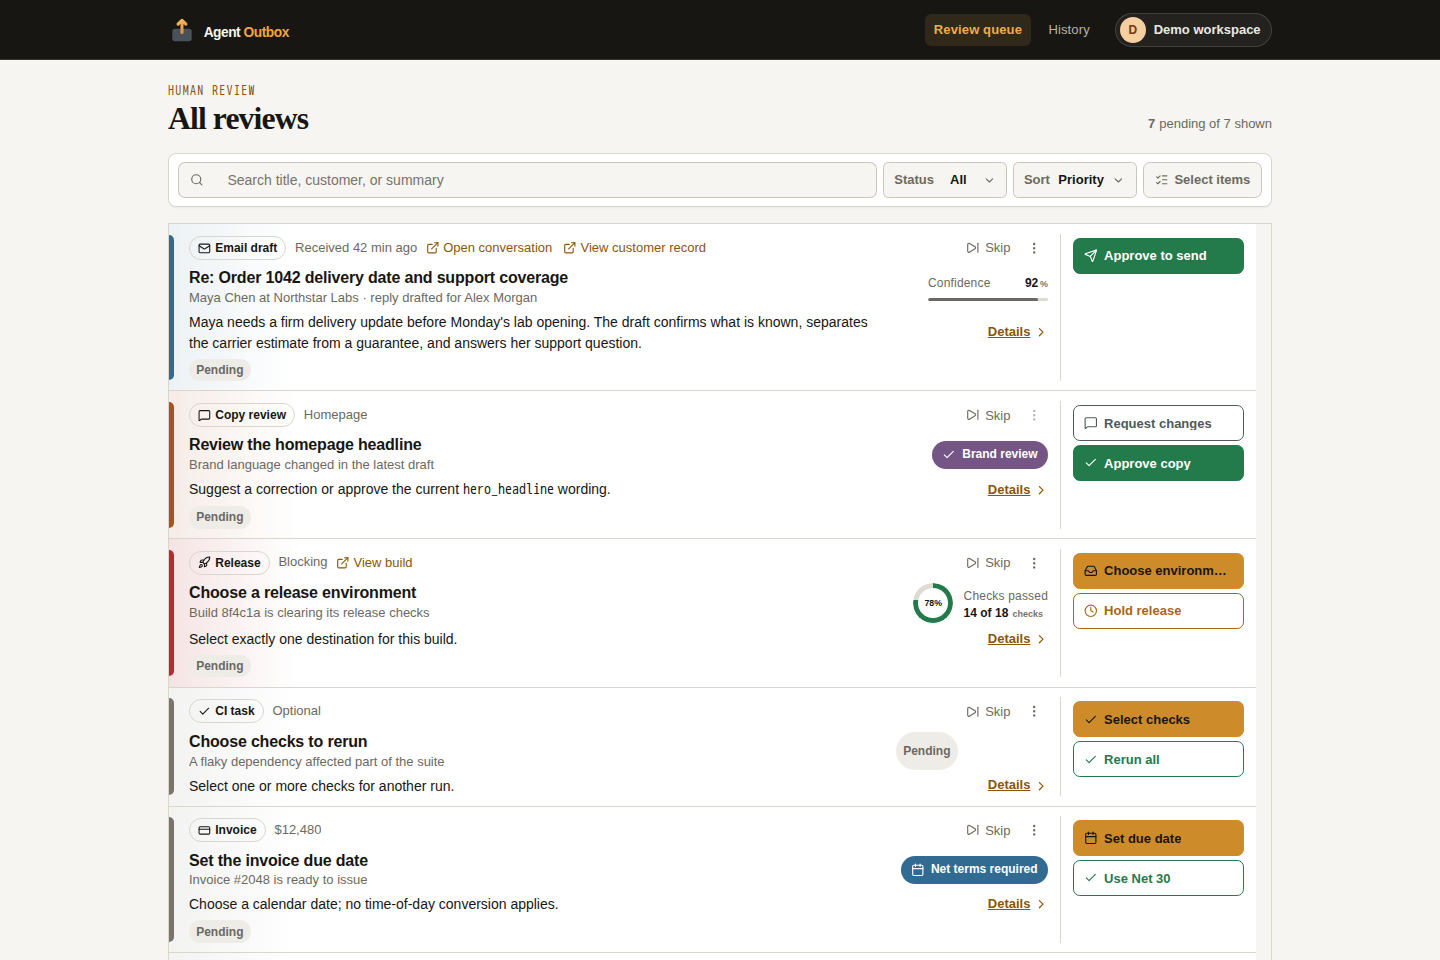
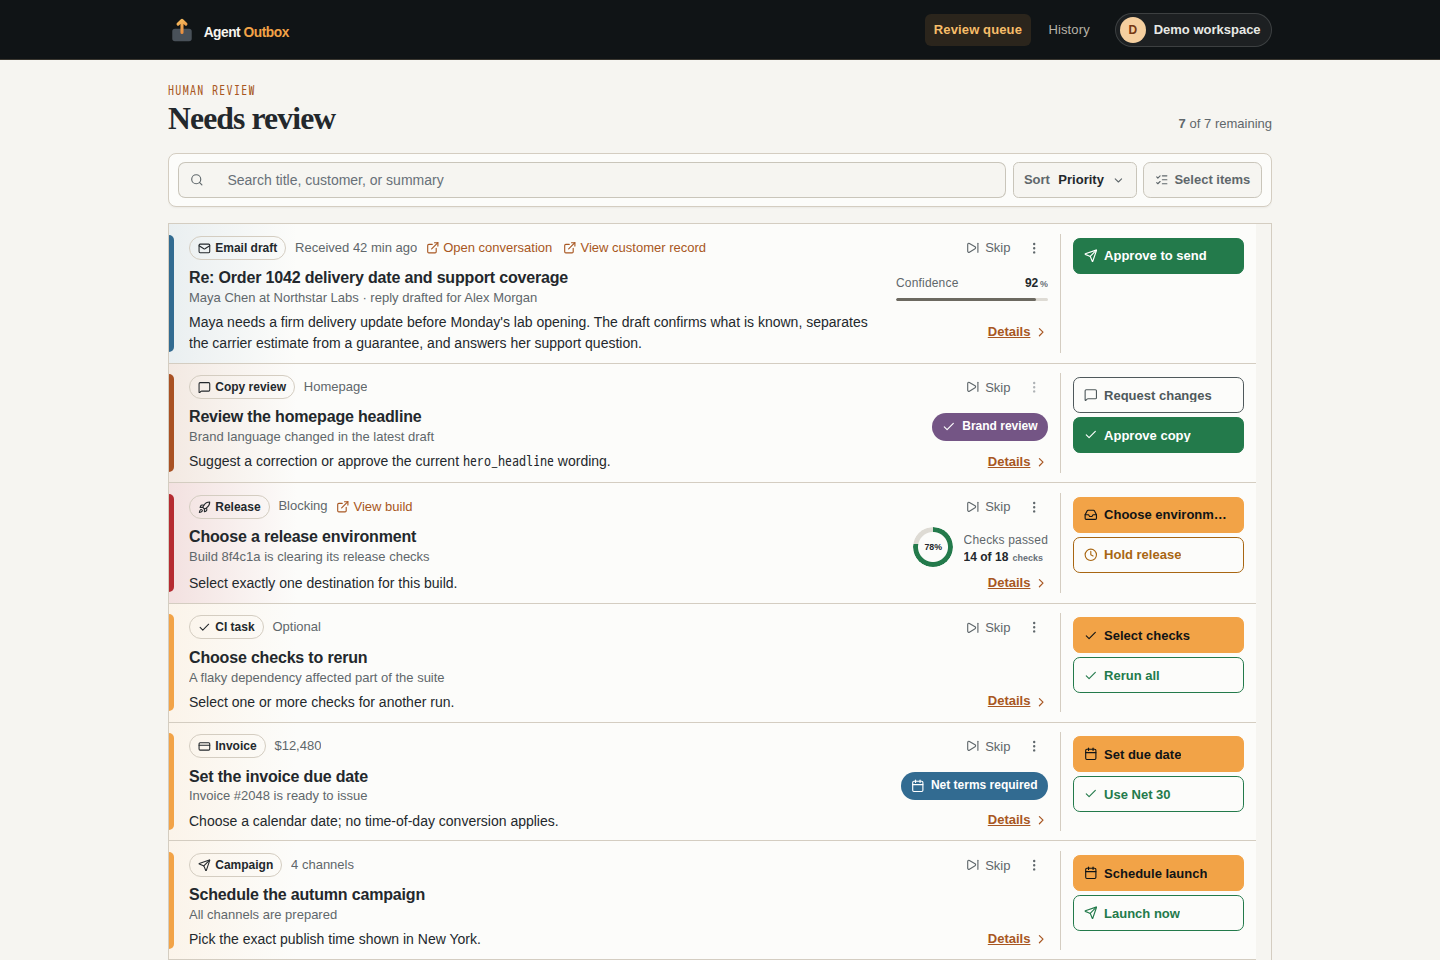
fix: address review feedback for pill visual contrast and marketing screenshots

diff --git a/app/review-workspace.css b/app/review-workspace.css
@@ -984,7 +984,7 @@ body:has(.shell > .human-workspace) {
   border-radius: 999px;
   background: var(--visual-color);
   box-shadow: none;
-  color: #fff;
+  color: var(--visual-foreground);
   white-space: nowrap;
 }
 
@@ -2653,7 +2653,6 @@ body:has(.shell > .human-workspace) {
 }
 
 .human-workspace .row-context .pill-visual {
-  --visual-color: var(--row-accent);
   display: inline-flex;
   gap: 0.4rem;
   min-height: 1.75rem;
@@ -2662,7 +2661,7 @@ body:has(.shell > .human-workspace) {
   border-radius: 999px;
   background: var(--visual-color);
   box-shadow: none;
-  color: #fff;
+  color: var(--visual-foreground);
   white-space: nowrap;
 }
 

diff --git a/src/components/human/TypedContent.tsx b/src/components/human/TypedContent.tsx
@@ -217,9 +217,10 @@ export function CardVisual({
       <div
         className={`card-visual pill-visual${icon ? " pill-visual-with-icon" : ""}`}
         style={
-          paletteColor
-            ? ({ "--visual-color": paletteColor } as CSSProperties)
-            : undefined
+          {
+            "--visual-color": paletteColor ?? "var(--review-accent)",
+            "--visual-foreground": paletteColor ? "#fff" : "var(--review-ink)"
+          } as CSSProperties
         }
       >
         {icon ? (

diff --git a/tests/browser/human-ui.spec.ts b/tests/browser/human-ui.spec.ts
@@ -1043,6 +1043,14 @@ test("canonical row visuals and popup constraints expose only supported semantic
     "External · 3"
   );
   await expect(pillRow.locator(".pill-visual")).not.toContainText("Signal");
+  await expect(pillRow.locator(".pill-visual")).toHaveCSS(
+    "background-color",
+    "rgb(169, 81, 35)"
+  );
+  await expect(pillRow.locator(".pill-visual")).toHaveCSS(
+    "color",
+    "rgb(255, 255, 255)"
+  );
 
   const categoryVisual = reviewRowByTitle(
     page,
